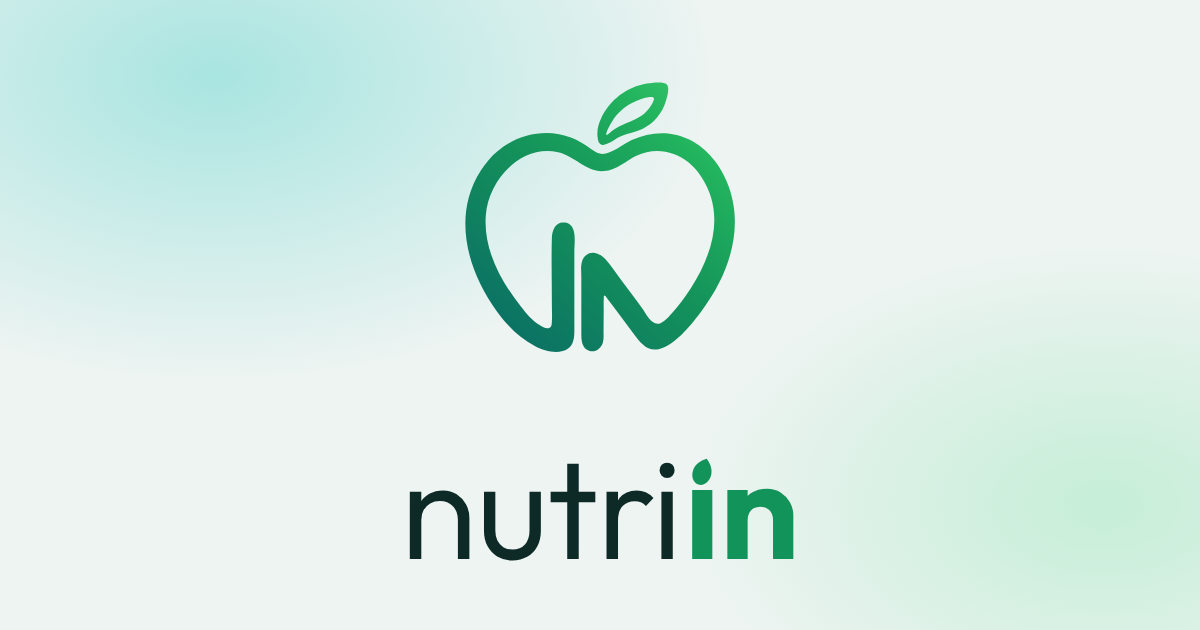
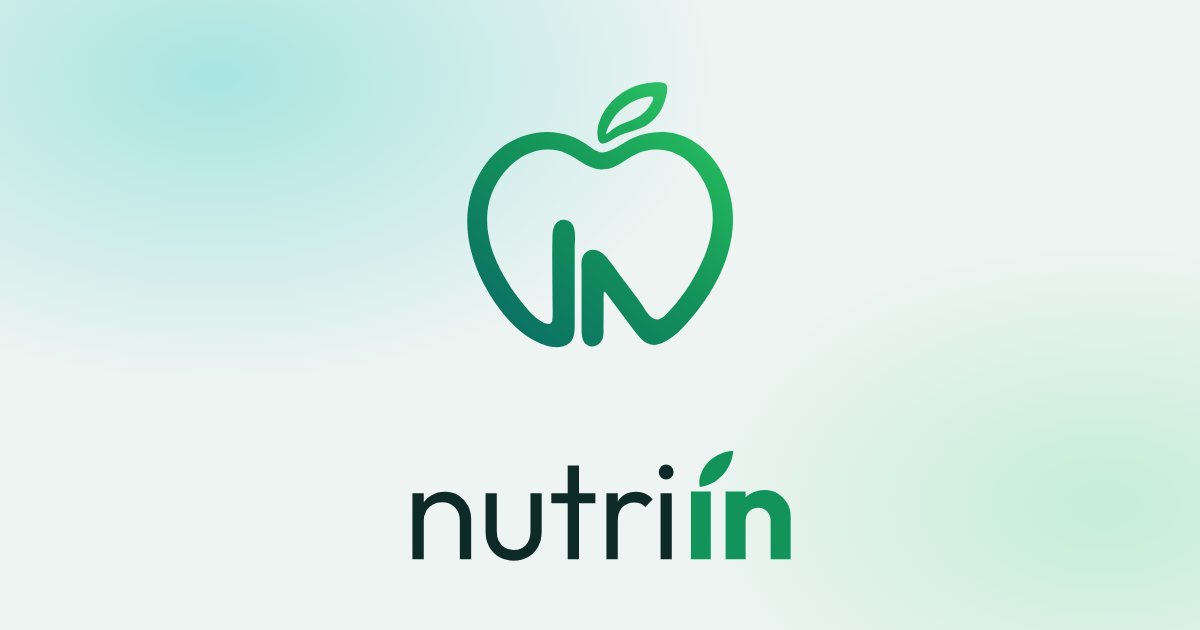
Nutriin: листото над „i“ по образеца — леща под 45°, основата над стъблото, плътен цвят
Claude-Session: https://claude.ai/code/session_01AAmbBaVt2HSrok4C214enD

diff --git a/design-system.css b/design-system.css
@@ -1936,7 +1936,7 @@ nav.bottom-nav .bottom-nav-item:focus-visible {
    <span class="ex-logo" role="img" aria-label="Nutriin"></span>  (хоризонтално, следва темата)
    <span class="ex-mark"></span>                                         (само знакът)
    =========================== */
-.ex-logo { display: inline-block; height: 28px; aspect-ratio: 3433 / 1000; background: var(--brand-logo) left center / contain no-repeat; vertical-align: middle; }
+.ex-logo { display: inline-block; height: 28px; aspect-ratio: 3265 / 1000; background: var(--brand-logo) left center / contain no-repeat; vertical-align: middle; }
 .ex-mark { display: inline-block; width: 28px; height: 28px; background: url('brand/nutriin-mark.svg') center / contain no-repeat; vertical-align: middle; }
 .ex-gradient-text { background: var(--brand-gradient); -webkit-background-clip: text; background-clip: text; color: transparent; }
 

diff --git a/protocol-page.css b/protocol-page.css
@@ -653,7 +653,7 @@ main.wrap { padding-bottom: 56px; }
 }
 
 /* Името EATO | LOGIX — цветният надпис от логото; на тъмна тема EATO е светъл. */
-.brand-word { display: inline-block; height: 18px; aspect-ratio: 2858 / 814; background: url('brand/nutriin-wordmark.svg') left center / contain no-repeat; }
+.brand-word { display: inline-block; height: 18px; aspect-ratio: 2858 / 874; background: url('brand/nutriin-wordmark.svg') left center / contain no-repeat; }
 [data-theme="dark"] .brand-word { background-image: url('brand/nutriin-wordmark-dark.svg'); }
 
 /* ── Стъкло и слоеве (същият език като XB-Studio и лендингите на модулите) ──
